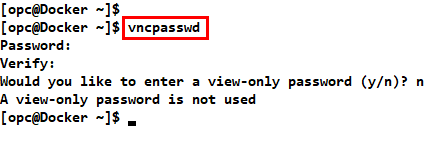
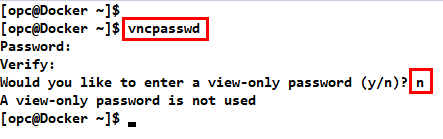
Updates to Labs

Changed region(s): [[0.0, 0.4029, 0.9977, 0.9209], [0.0, 0.0, 1.0, 0.3741]]

diff --git a/workshops/monolithic-to-microservice/lab-guides/LabGuide050.md b/workshops/monolithic-to-microservice/lab-guides/LabGuide050.md
@@ -94,7 +94,7 @@ Before we create the Compute instance that contains Docker and the other support
 
   ![](images/200/24.PNG)
 
-- Open up the pubic key file in the text editor of your choice: (e.g. vi/TextEdit - Linux/Mac) or (notepad - Windows). Linux screen shots shown here:
+- Open up the pubic key file in the text editor of your choice: (e.g. **vi/TextEdit - Linux/Mac**) or (**notepad - Windows**). Linux screen shots shown here:
 
   ```
   vi/TextEdit/notepad dockerkey.pub
@@ -182,9 +182,17 @@ Compartments are used to isolate resources within your OCI tenant. User-based ac
 
   ![](images/050/50-25.PNG)
 
-- Scroll down the list and click on the **Oracle Cloud Developer Image**.
+- Filter on the following criteria:
 
-  ![](images/050/50-26.PNG)
+  ```
+  Type: Image
+  Publisher: Oracle
+  Category: Developer Tools
+  ```
+
+- You'll see a few image options. Click on the **Oracle Cloud Developer Image**.
+
+  ![](images/050/50-26-2.PNG)
 
 - The next page all of the client tools included in this Linux based image. Select the **monoTOmicro** compartment, check the "...reviewed..." checkbox and click **Launch Instance**.
 
@@ -317,7 +325,7 @@ A Virtual Cloud Network (VCN) is locked down from a security standpoint until yo
 
   ![](images/050/50-40.PNG)
 
-- Set a password for the VNC Server. You be prompted for the password when you connect via VNC Viewer. Type:
+- Set a password for the VNC Server. You be prompted for the password when you connect via VNC Viewer. Say **n** to the `view-only password` prompt. Type:
 
   ```
   vncpasswd
@@ -339,7 +347,7 @@ A Virtual Cloud Network (VCN) is locked down from a security standpoint until yo
 
   ![](images/050/50-42.PNG)
 
-- **OPTIONAL**: You can leave your ssh connection open in case you ave to stop and restart the VNC Server. If you test your connection with VNC Viewer and don't like the screen size you can stop and restart with a different geometry.
+- **OPTIONAL**: You can leave your ssh connection open in case you have to stop and restart the VNC Server. If you test your connection with VNC Viewer and don't like the screen size you can stop and restart with a different geometry.
 
   Example commands to resize screen:
 
@@ -362,7 +370,7 @@ Use VNC Viewer to connect to your provisioned account.
 
   ![](images/050/JS9.PNG)
 
-- Enter the VNC password  **Oracle123** and click **OK**.
+- Enter the VNC password you created in STEP 7 and click **OK**.
 
   ![](images/050/JS10.PNG)
 

diff --git a/workshops/monolithic-to-microservice/lab-guides/Intro.md b/workshops/monolithic-to-microservice/lab-guides/Intro.md
@@ -6,7 +6,7 @@ Welcome to the Monolithic to Microservice workshop. This workshop will walk you 
 
 - Bookmark this page for future reference.
 
-- Please click on the following link to create your <a href="https://myservices.us.oraclecloud.com/mycloud/signup?language=en&sourceType=:ow:lp:2t::RC_NAMK190201P00051:Monolith2MicroHOL&intcmp=:ow:lp:2t::RC_NAMK190201P00051:Monolith2MicroHOL" target="_trial_">Free Account</a>, and complete all the required steps to get your free Oracle Cloud Trial Account. When you complete the registration process you'll receive a $300 credit that will enable you to complete the lab for free.  Additionally, you'll have 1000s of hours left over to continue to explore the Oracle Cloud.
+- Please click on the following link to create your <a href="https://myservices.us.oraclecloud.com/mycloud/signup?language=en&sourceType=:ow:lp:2t::RC_NAMK190201P00051:Monolith2MicroHOL&intcmp=:ow:lp:2t::RC_NAMK190201P00051:Monolith2MicroHOL" target="_trial_">Free Account</a>, and complete all the required steps to get your free Oracle Cloud Trial Account. When you complete the registration process you'll receive a $500 credit that will enable you to complete the lab for free.  Additionally, you'll have 1000s of hours left over to continue to explore the Oracle Cloud.
 
   - Soon after requesting your trial you will receive the following email. Once you receive this email you can proceed to the next step.
 

diff --git a/workshops/monolithic-to-microservice/lab-guides/LabGuide300.md b/workshops/monolithic-to-microservice/lab-guides/LabGuide300.md
@@ -257,7 +257,7 @@ During this lab, you will take the Docker image that you created in Lab 200 and 
 
 ### **STEP 5**: Install kubectl
 
-- In order to interact with your cluster and view the dashboard, you will need to **install the Kubernetes command line interface `kubectl`, ON YOUR LOCAL MACHINE**. We will do that now.
+- In order to interact with your cluster and view the dashboard, you will need to **install the Kubernetes command line interface `kubectl`.
 
 - The method you choose to install `kubectl` will depend on your operating system and any package managers that you may already use. The generic method of installation, downloading the binary file using `curl`, is given below (**run the appropriate command in a terminal or command prompt**). If you prefer to use a package manager such as apt-get, yum, homebrew, chocolatey, etc, please find the specific command in the [Kubernetes Documentation](https://kubernetes.io/docs/tasks/tools/install-kubectl/). The `cluster-info` and `get nodes` commands need to be working (returning information on your cluster) before you can proceed.
 

diff --git a/workshops/monolithic-to-microservice/lab-guides/LabGuide100.md b/workshops/monolithic-to-microservice/lab-guides/LabGuide100.md
@@ -338,6 +338,10 @@ In this lab you will use your Oracle Cloud Trial Account to upload a Data Pump e
 
 	![](images/100/image48.png)
 
+- The **Log Files** tab will show the results of the import. For this import you'll see a few errors and warnings but these are OK.
+
+	![](images/100/image48-2.png)
+
 **This completes the Lab!**
 
 **You are ready to proceed to [Lab 200](LabGuide200.md)**
